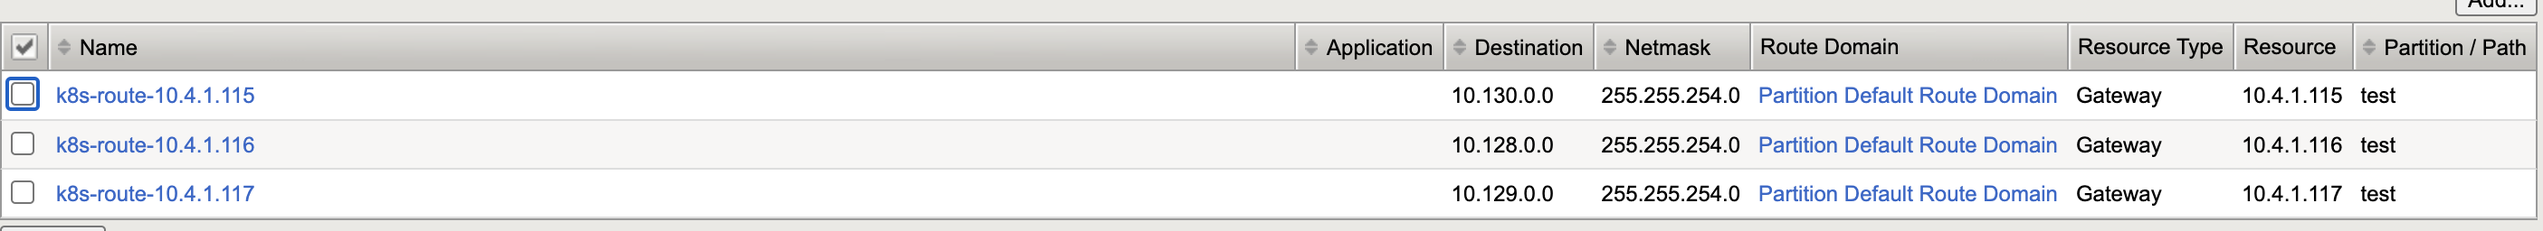
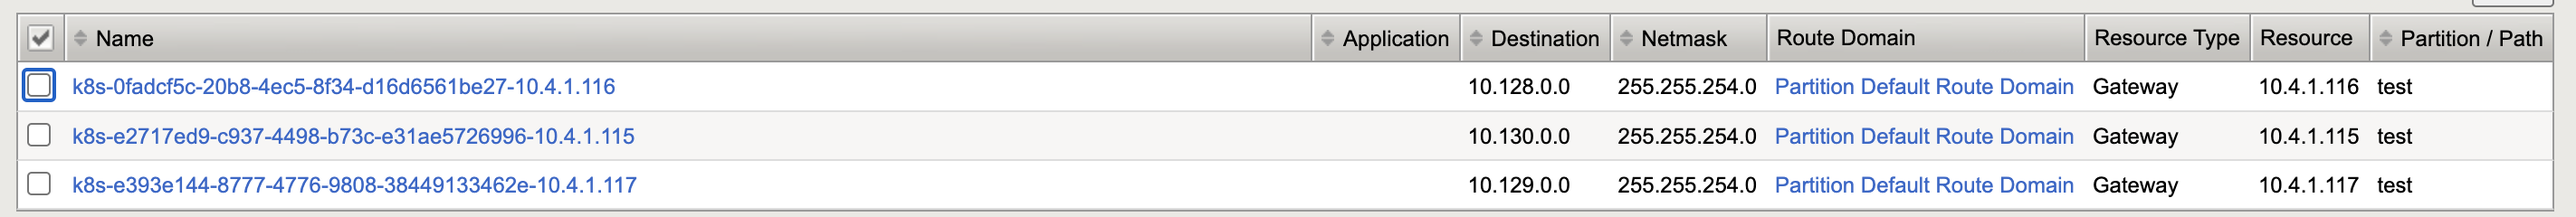
Modify static route name (#2842)

diff --git a/pkg/appmanager/appManager.go b/pkg/appmanager/appManager.go
@@ -3744,7 +3744,7 @@ func (appMgr *Manager) processStaticRouteUpdate(
 					continue
 				}
 				route.Gateway = nodeIP
-				route.Name = fmt.Sprintf("k8s-route-%v", nodeIP)
+				route.Name = fmt.Sprintf("k8s-%v-%v", node.Name, nodeIP)
 			}
 
 		} else {
@@ -3755,7 +3755,7 @@ func (appMgr *Manager) processStaticRouteUpdate(
 				for _, addr := range nodeAddrs {
 					if addr.Type == addrType {
 						route.Gateway = addr.Address
-						route.Name = fmt.Sprintf("k8s-route-%v", addr.Address)
+						route.Name = fmt.Sprintf("k8s-%v-%v", node.Name, addr.Address)
 					}
 				}
 			} else {

diff --git a/pkg/controller/node_poll_handler.go b/pkg/controller/node_poll_handler.go
@@ -308,7 +308,7 @@ func (ctlr *Controller) processStaticRouteUpdate(
 					continue
 				}
 				route.Gateway = nodeIP
-				route.Name = fmt.Sprintf("k8s-route-%v", nodeIP)
+				route.Name = fmt.Sprintf("k8s-%v-%v", node.Name, nodeIP)
 			}
 
 		} else {
@@ -320,7 +320,7 @@ func (ctlr *Controller) processStaticRouteUpdate(
 				for _, addr := range nodeAddrs {
 					if addr.Type == addrType {
 						route.Gateway = addr.Address
-						route.Name = fmt.Sprintf("k8s-route-%v", addr.Address)
+						route.Name = fmt.Sprintf("k8s-%v-%v", node.Name, addr.Address)
 					}
 				}
 			} else {

diff --git a/docs/config_examples/StaticRoute/README.md b/docs/config_examples/StaticRoute/README.md
@@ -12,7 +12,7 @@ Support for CIS to configure static routes in BIG-IP with node subnets assigned 
 
 ## cis-deployment-ovn-k8s.yaml
 
-By deploying this yaml file in your cluster, cis will be configured with static route enabled for ovn-k8s environment
+By deploying this yaml file in your cluster, cis will be configured with static route enabled for ovn-k8s environment.Route will be configured with name in the format ``k8s-<nodename>-<nodeip>`` as shown below.
 
 ### BIGIP-Config:
 
